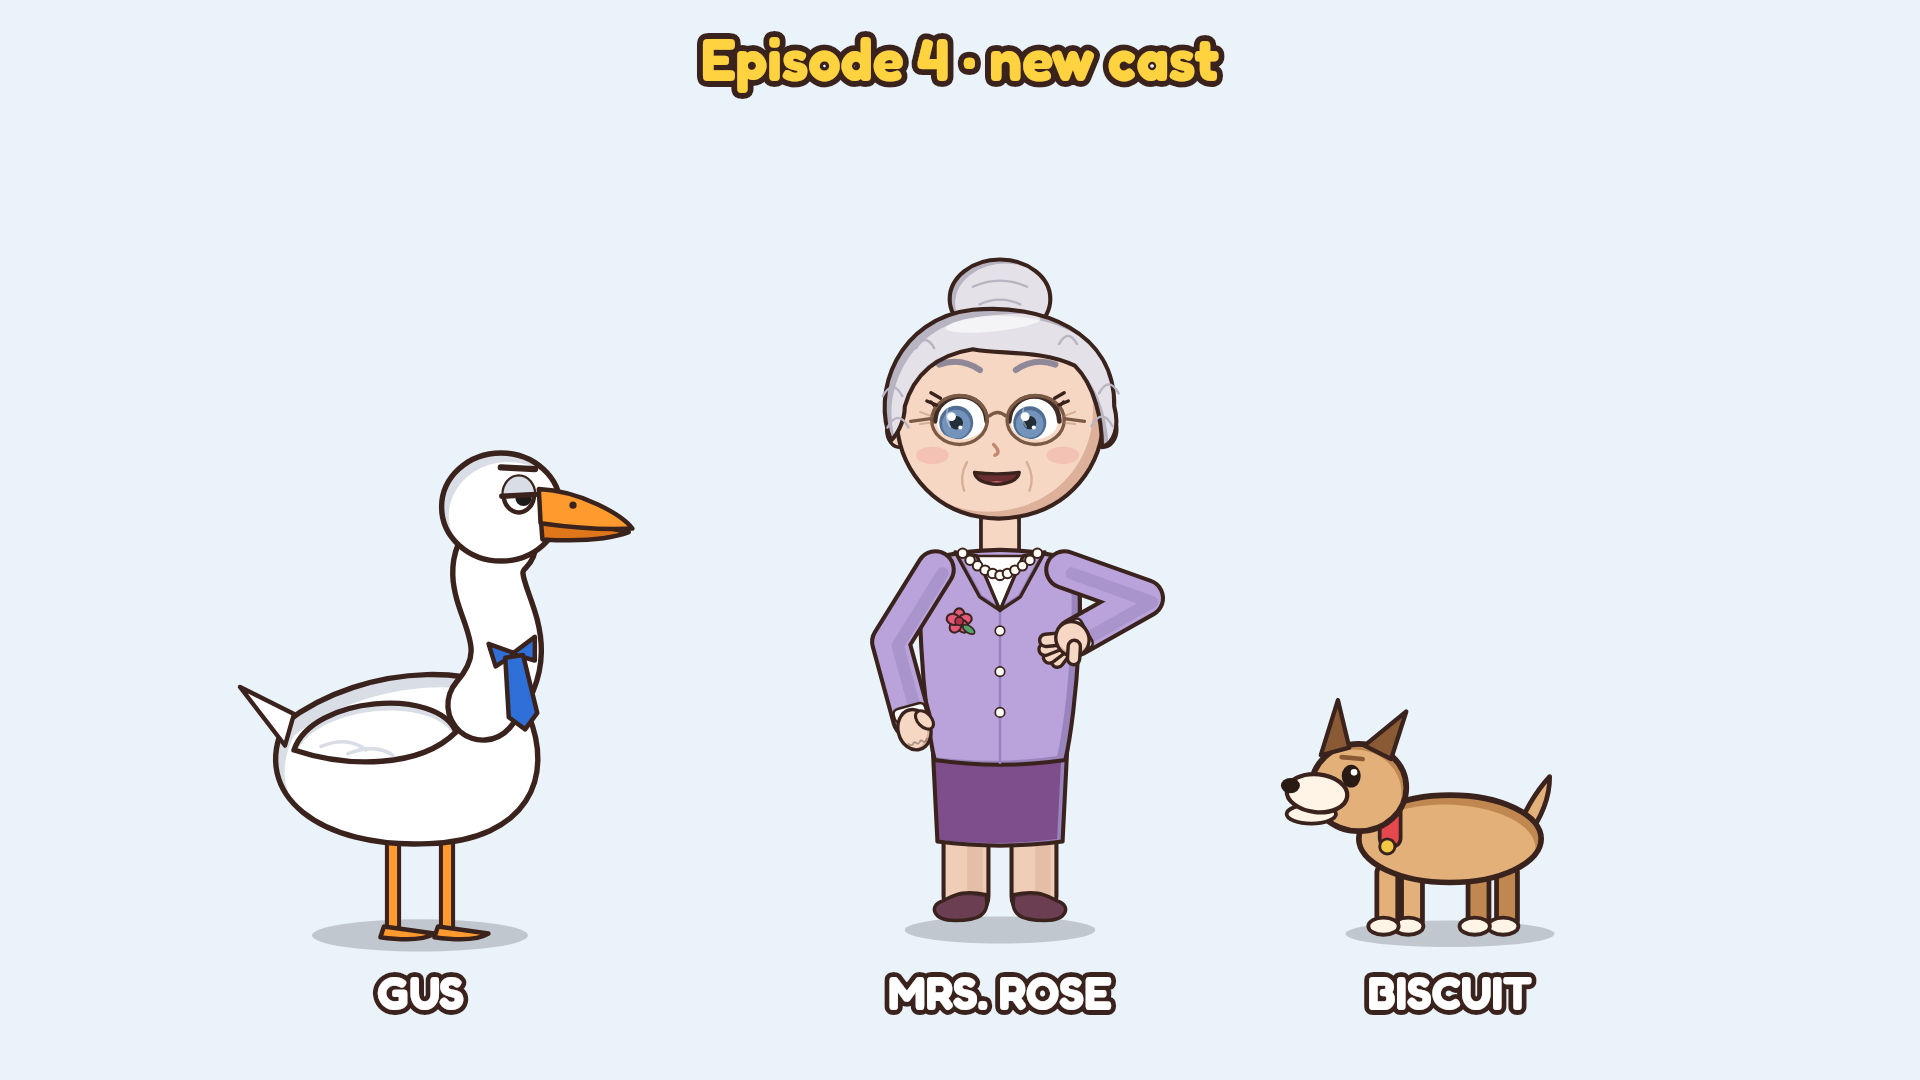
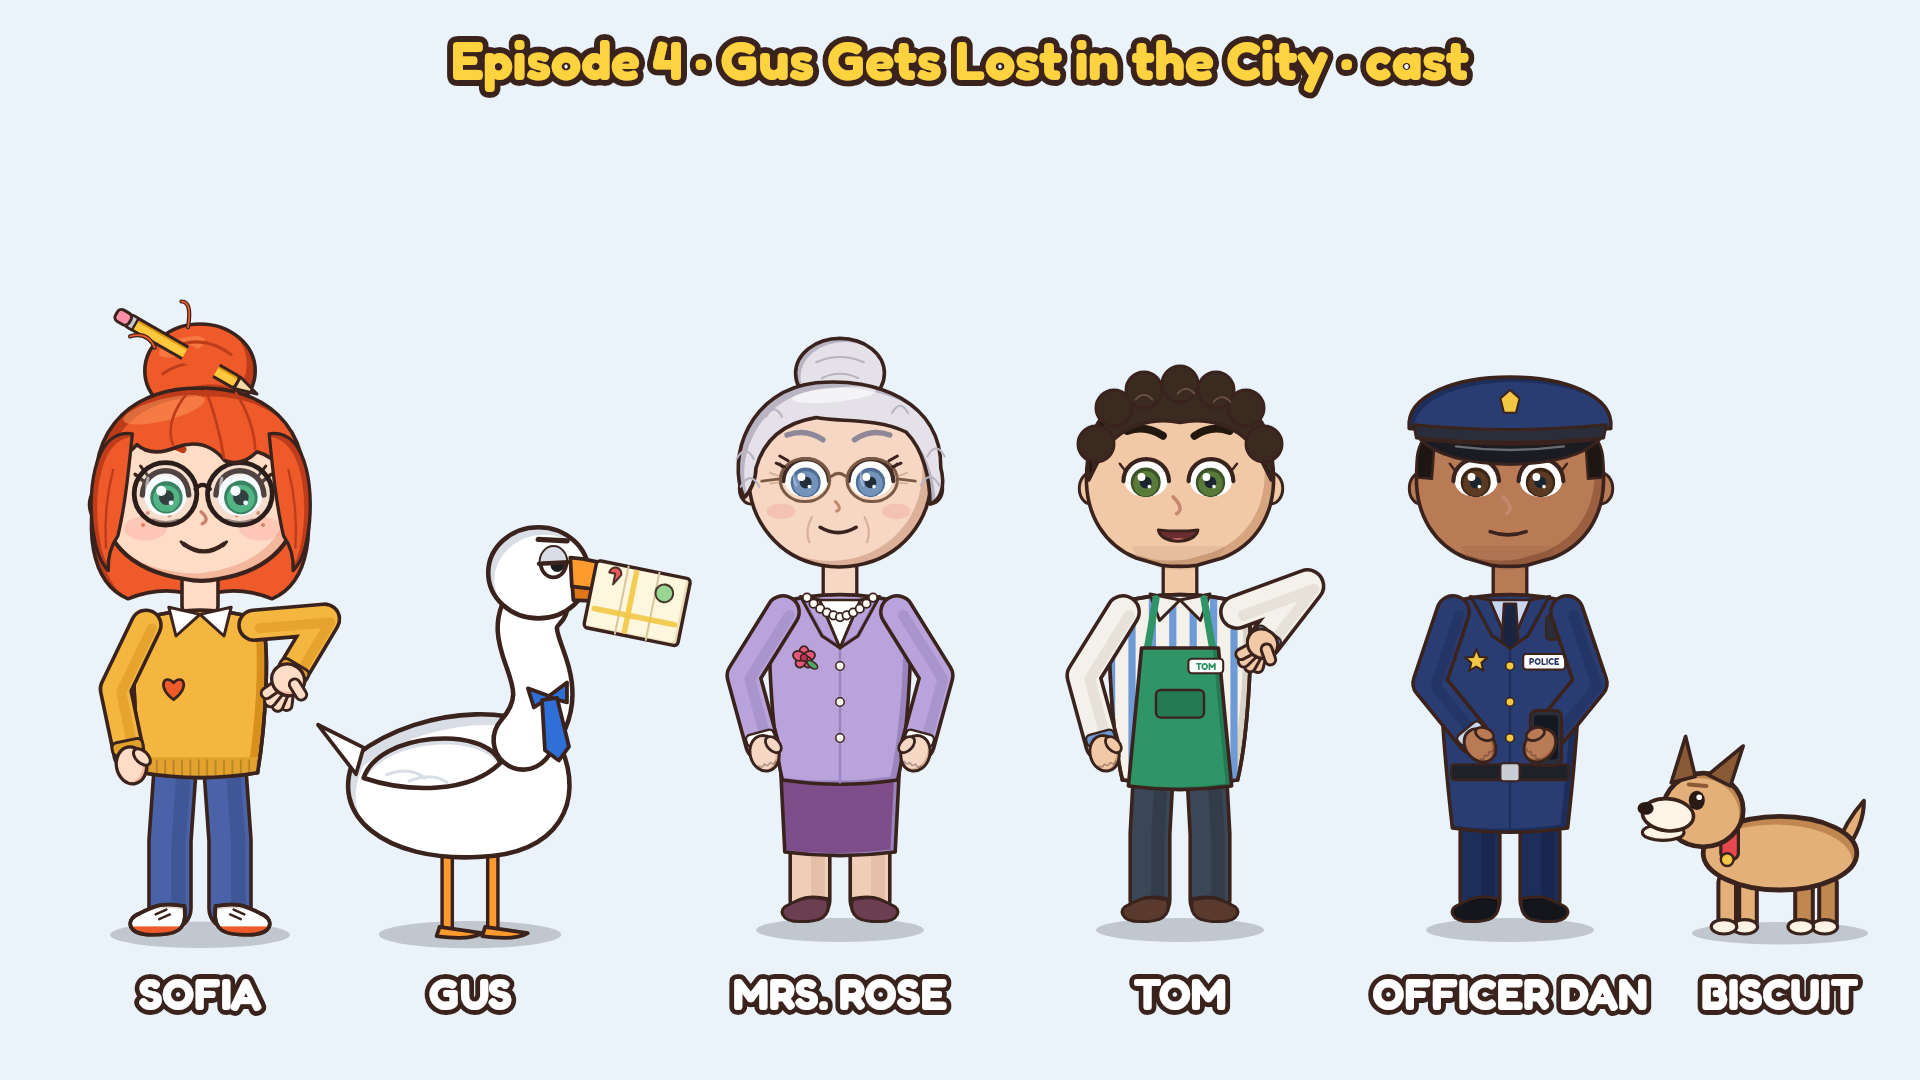
Ep4: Tom + Officer Dan (lib/town.js), props, cast sheet; el.py works with a proxy-held key
Claude-Session: https://claude.ai/code/session_01HNKLqSScVTNXAzghvw1qHg

Changed region(s): [[0.0312, 0.2139, 0.9688, 0.9472], [0.2188, 0.0306, 0.7812, 0.0917]]

diff --git a/lib/town.js b/lib/town.js
@@ -1,0 +1,91 @@
+// Ep4 town cast on the crew rig (lib/crew.js stays untouched): Tom (corner-shop clerk) and Officer Dan.
+// drawTom / drawDan(ctx, x, hipY, s, pose) — same pose API as drawCrew (hip = floor - 280*s).
+// Props: mapProp(ctx, s, open), phoneProp(ctx, s, screen), burgerProp(ctx, X, Y, s).
+const { OL, paint, line, curve, roundRect } = require('./draw');
+const crew = require('./crew');
+const SH_Y = -250, SH_X = 95;
+
+// ---- Tom: green apron over a striped shirt, curly hair, name tag ----
+function tomTorso(ctx) {
+  const shirt = c => {
+    c.moveTo(-SH_X - 14, SH_Y - 14); c.quadraticCurveTo(0, SH_Y - 44, SH_X + 14, SH_Y - 14);
+    c.bezierCurveTo(SH_X + 32, SH_Y + 10, SH_X + 18, -40, 96, 30); c.quadraticCurveTo(0, 44, -96, 30);
+    c.bezierCurveTo(-SH_X - 18, -40, -SH_X - 32, SH_Y + 10, -SH_X - 14, SH_Y - 14); c.closePath();
+  };
+  paint(ctx, shirt, '#F4F1EA', { shade: '#D9D3C6', sx: 12, sy: 6, lw: 6 });
+  ctx.save(); ctx.beginPath(); shirt(ctx); ctx.clip(); ctx.fillStyle = '#6E9BD6';
+  for (let x = -120; x < 130; x += 34) ctx.fillRect(x, SH_Y - 50, 12, 340); ctx.restore();
+  ctx.save(); ctx.beginPath(); shirt(ctx); ctx.lineWidth = 6; ctx.strokeStyle = OL; ctx.stroke(); ctx.restore();
+  // collar
+  for (const k of [-1, 1]) paint(ctx, c => { c.moveTo(0, SH_Y - 20); c.lineTo(k * 50, SH_Y - 30); c.lineTo(k * 34, SH_Y + 14); c.closePath(); }, '#F4F1EA', { lw: 5 });
+  // apron + straps
+  for (const k of [-1, 1]) line(ctx, [[k * 40, SH_Y - 22], [k * 56, SH_Y + 70]], 12, '#2F9466');
+  paint(ctx, c => { c.moveTo(-64, SH_Y + 60); c.lineTo(64, SH_Y + 60); c.lineTo(86, 40); c.quadraticCurveTo(0, 52, -86, 40); c.closePath(); }, '#2F9466', { shade: '#247A53', sx: 10, sy: 4, lw: 6 });
+  paint(ctx, c => roundRect(c, -40, -120, 80, 46, 8), '#247A53', { lw: 4 }); // pocket
+  paint(ctx, c => roundRect(c, 14, SH_Y + 78, 58, 24, 6), '#FFFFFF', { lw: 3.5 });
+  ctx.fillStyle = '#2F9466'; ctx.font = '800 16px FredokaL, NunitoC'; ctx.textAlign = 'center'; ctx.fillText('TOM', 43, SH_Y + 96);
+}
+function tomHair(ctx) {
+  const C = '#3A2A20', S = '#22170F';
+  paint(ctx, c => {
+    c.moveTo(-152, 0); c.bezierCurveTo(-168, -100, -96, -164, 0, -164); c.bezierCurveTo(96, -164, 168, -100, 152, 0);
+    c.lineTo(132, -40); c.bezierCurveTo(100, -96, 40, -104, 0, -96); c.bezierCurveTo(-40, -104, -100, -96, -132, -40); c.closePath();
+  }, C, { shade: S, sx: -8, sy: -8 });
+  for (const [x, y] of [[-110, -120], [-60, -150], [0, -160], [60, -150], [110, -120], [-140, -60], [140, -60]]) paint(ctx, c => c.arc(x, y, 30, 0, 7), C, { lw: 5 });
+  for (const [x, y] of [[-60, -140], [10, -150], [70, -136]]) curve(ctx, [x - 14, y + 6], [x, y - 10], [x + 14, y + 6], 3, '#6A5040');
+}
+crew.STYLES.tom = { glasses: false, mustache: false, steth: false, torso: tomTorso, hair: tomHair,
+  pal: { hair: '#3A2A20', hairSh: '#22170F', hairHi: '#6A5040', browCore: '#22170F', iris: '#5A7A3A', irisDk: '#3A5226', skin: '#F2C9A6', skinSh: '#D6A47E',
+    shirt: '#F4F1EA', sleeve: '#F4F1EA', sleeveSh: '#D9D3C6', cuff: '#6E9BD6', pants: '#3B4656', pantsSh: '#2A323E', shoe: '#5B3A2E', shoeSh: '#3A2620' } };
+
+// ---- Officer Dan: navy police uniform + cap, badge, radio ----
+function danExtra(ctx) {
+  paint(ctx, c => { c.moveTo(-10, SH_Y - 14); c.lineTo(10, SH_Y - 14); c.lineTo(14, SH_Y + 50); c.lineTo(0, SH_Y + 62); c.lineTo(-14, SH_Y + 50); c.closePath(); }, '#1A2340', { lw: 4 });
+  ctx.save(); ctx.translate(-56, SH_Y + 82); // star badge
+  paint(ctx, c => { for (let i = 0; i < 10; i++) { const r = i % 2 ? 9 : 20, a = -Math.PI / 2 + i * Math.PI / 5; c[i ? 'lineTo' : 'moveTo'](Math.cos(a) * r, Math.sin(a) * r); } c.closePath(); }, '#F2C744', { shade: '#C79A2A', sx: 2, sy: 2, lw: 3.5 });
+  ctx.restore();
+  paint(ctx, c => roundRect(c, 22, SH_Y + 70, 70, 26, 5), '#FFFFFF', { lw: 3.5 });
+  ctx.fillStyle = '#1E2E5A'; ctx.font = '800 15px FredokaL, NunitoC'; ctx.textAlign = 'center'; ctx.fillText('POLICE', 57, SH_Y + 88);
+  paint(ctx, c => roundRect(c, 60, SH_Y + 6, 24, 40, 6), '#2A2E3A', { lw: 3.5 }); // radio
+  line(ctx, [[78, SH_Y + 6], [78, SH_Y - 18]], 4, '#2A2E3A');
+  paint(ctx, c => roundRect(c, -98, 4, 196, 26, 6), '#1F2128', { lw: 4 }); // belt
+  paint(ctx, c => roundRect(c, -16, 2, 32, 30, 5), '#C9CDD6', { lw: 3.5 });
+}
+function danHair(ctx) { for (const k of [-1, 1]) paint(ctx, c => { c.moveTo(k * 154, -4); c.bezierCurveTo(k * 158, -30, k * 156, -50, k * 146, -66); c.lineTo(k * 126, -60); c.lineTo(k * 130, -2); c.closePath(); }, '#1E1612', { lw: 4 }); }
+crew.STYLES.dan = Object.assign({}, crew.STYLES.bob, { mustache: false, extra: danExtra, hair: danHair, browW: 13,
+  pal: { hair: '#1E1612', hairSh: '#120C09', hairHi: '#3A2E28', browCore: '#120C09', iris: '#5A3A22', irisDk: '#3A2414', skin: '#B97A56', skinSh: '#9A5F40',
+    jacket: '#2A3D73', jacketSh: '#1E2E5A', shirt: '#C9D6EE', sleeve: '#2A3D73', sleeveSh: '#1E2E5A', cuff: '#C9D6EE', button: '#F2C744', pants: '#1E2E5A', pantsSh: '#141F40', shoe: '#14161C', shoeSh: '#08090C' } });
+
+const drawTom = (ctx, x, y, s, p) => crew.drawCrew(ctx, x, y, s, p, 'tom');
+const drawDan = (ctx, x, y, s, p) => crew.drawCrew(ctx, x, y, s, p, 'dan');
+
+// ---- props (drawn upright at the origin) ----
+function mapProp(ctx, s = 1) {
+  ctx.save(); ctx.scale(s, s);
+  paint(ctx, c => roundRect(c, -70, -50, 140, 100, 6), '#FFF6DE', { shade: '#EADBB8', sx: 6, sy: 4, lw: 5 });
+  for (const x of [-23, 23]) line(ctx, [[x, -50], [x, 50]], 3, '#D8C79E');
+  ctx.save(); ctx.globalAlpha = 0.9;
+  line(ctx, [[-60, 20], [60, 20]], 8, '#F2C744'); line(ctx, [[-10, -44], [-10, 44]], 8, '#F2C744');
+  paint(ctx, c => c.arc(36, -22, 13, 0, 7), '#8ED28A', { lw: 3 });
+  paint(ctx, c => { c.moveTo(-40, -20); c.lineTo(-40, -36); c.arc(-40, -36, 9, Math.PI, 0); c.closePath(); }, '#E5484D', { lw: 3 });
+  ctx.restore(); ctx.restore();
+}
+function phoneProp(ctx, s = 1, screen = 'dark') {
+  ctx.save(); ctx.scale(s, s);
+  paint(ctx, c => roundRect(c, -26, -46, 52, 92, 10), '#2A2E3A', { lw: 5 });
+  paint(ctx, c => roundRect(c, -20, -38, 40, 74, 6), screen === 'on' ? '#9ED4F2' : '#141820', { lw: 0 });
+  if (screen === 'empty') { paint(ctx, c => roundRect(c, -12, -6, 22, 12, 3), '#141820', { ol: '#E5484D', lw: 3 }); paint(ctx, c => c.rect(10, -3, 3, 6), '#E5484D', { lw: 0 }); }
+  ctx.restore();
+}
+function burgerProp(c, X, Y, s) {
+  c.save(); c.translate(X, Y); c.scale(s, s);
+  paint(c, q => { q.moveTo(-80, -6); q.bezierCurveTo(-80, -70, 80, -70, 80, -6); q.closePath(); }, '#E9A54A', { shade: '#C8862E', sx: 0, sy: -8, lw: 6 });
+  c.fillStyle = '#FFF4D6'; for (const [x, y] of [[-40, -34], [-8, -46], [28, -36], [50, -22], [-58, -18]]) { c.beginPath(); c.ellipse(x, y, 7, 4, 0.3, 0, 7); c.fill(); }
+  paint(c, q => { q.moveTo(-88, 0); for (let i = 0; i <= 8; i++) q.lineTo(-88 + i * 22, i % 2 ? 14 : 2); q.lineTo(88, 2); q.closePath(); }, '#6FCF5F', { lw: 5 });
+  paint(c, q => roundRect(q, -84, 8, 168, 22, 10), '#FFD23F', { lw: 5 });
+  paint(c, q => roundRect(q, -82, 24, 164, 30, 14), '#8A4A2E', { lw: 6 });
+  paint(c, q => { q.moveTo(-80, 52); q.lineTo(80, 52); q.bezierCurveTo(80, 82, -80, 82, -80, 52); q.closePath(); }, '#E9A54A', { lw: 6 });
+  c.restore();
+}
+
+module.exports = { drawTom, drawDan, mapProp, phoneProp, burgerProp };

diff --git a/ep4/lineup.js b/ep4/lineup.js
@@ -1,14 +1,20 @@
+// Ep4 cast sheet: node ep4/lineup.js out.png
 require('../lib/fonts');
 const { createCanvas } = require('../node_modules/@napi-rs/canvas');
 const { drawGus } = require('../lib/gus');
+const { drawSofia } = require('../lib/sofia');
 const { drawRose, drawDog } = require('../lib/rose');
+const { drawTom, drawDan, mapProp, phoneProp } = require('../lib/town');
 const U = require('../lib/ui');
 const c = createCanvas(1920, 1080), x = c.getContext('2d');
 x.fillStyle = '#EAF2FA'; x.fillRect(0, 0, 1920, 1080);
-const F0 = 930;
-drawGus(x, 420, F0, 0.9, { face: 1, lids: 0.55, look: 0.3 });
-drawRose(x, 1000, F0 - 280 * 0.68, 0.68, { turn: -0.15, look: [-0.4, 0], mouth: { smile: 0.8, open: 0.15 }, armR: [110, -150], handR: 'open', browL: 0.3, browR: 0.3 });
-drawDog(x, 1450, F0, 0.95, { face: -1, tail: 1 });
-for (const [px, n] of [[420, 'GUS'], [1000, 'MRS. ROSE'], [1450, 'BISCUIT']]) U.textOutlined(x, n, px, 1010, 46, '#FFFFFF', { olw: 10 });
-U.textOutlined(x, 'Episode 4 · new cast', 960, 80, 58, '#FFD23F', { olw: 12 });
+const F0 = 930, s = 0.6;
+drawSofia(x, 200, F0 - 272 * s, s, { turn: 0.15, mouth: { smile: 0.8 }, armR: [150, -150], handR: 'open' });
+drawGus(x, 470, F0, 0.76, { face: 1, lids: 0.55, look: 0.3, hold: (c2, f, h) => { c2.translate(h.hx + 130, h.hy + 40); c2.rotate(0.2); mapProp(c2, 0.9); } });
+drawRose(x, 840, F0 - 280 * s, s, { turn: -0.1, mouth: { smile: 0.8 } });
+drawTom(x, 1180, F0 - 280 * s, s, { turn: -0.1, mouth: { smile: 0.8, open: 0.2 }, armR: [140, -200], handR: 'open', browL: 0.3, browR: 0.3 });
+drawDan(x, 1510, F0 - 280 * s, s, { turn: -0.1, mouth: { smile: 0.5 }, armL: [-60, -40], armR: [60, -40], armsFront: true, holdR: (c2) => phoneProp(c2, 1, 'empty') });
+drawDog(x, 1780, F0, 0.8, { face: -1, tail: 1 });
+for (const [px, n] of [[200, 'SOFIA'], [470, 'GUS'], [840, 'MRS. ROSE'], [1180, 'TOM'], [1510, 'OFFICER DAN'], [1780, 'BISCUIT']]) U.textOutlined(x, n, px, 1010, 44, '#FFFFFF', { olw: 10 });
+U.textOutlined(x, 'Episode 4 · Gus Gets Lost in the City · cast', 960, 80, 54, '#FFD23F', { olw: 12 });
 require('fs').writeFileSync(process.argv[2], c.toBuffer('image/png'));

diff --git a/ep4/bg4.js b/ep4/bg4.js
@@ -113,4 +113,4 @@ function drawWide(x) {
 }
 const wide = () => mk(drawWide);
 
-module.exports = { wide, drawWide, K, W, H, GW };
+module.exports = { wide, drawWide, K, W, H, GW, sky, sidewalk, win, bricks, door, tree, lamp, bank, bench, sign, mk, vg };

diff --git a/el.py b/el.py
@@ -2,9 +2,10 @@
 # If a key runs out of credits or is rejected, the next key is tried automatically.
 import json, sys, base64, subprocess, os
 KEYS = [k.strip() for k in (os.environ.get('ELEVEN_API_KEYS') or os.environ.get('ELEVEN_API_KEY') or '').split(',') if k.strip()]
-if not KEYS: raise SystemExit('Set ELEVEN_API_KEYS="key1,key2,..." (never write keys into code or chat logs)')
+if not KEYS: KEYS = [None]  # no env key: the cloud environment's network secret adds xi-api-key at the proxy
 def _call(key, url, body):
-    r = subprocess.run(['curl', '-s', '-m', '180', '-X', 'POST', url, '-H', 'xi-api-key: ' + key, '-H', 'Content-Type: application/json', '--data-binary', '@-'], input=body.encode(), capture_output=True).stdout
+    hdr = ['-H', 'xi-api-key: ' + key] if key else []
+    r = subprocess.run(['curl', '-s', '-m', '180', '-X', 'POST', url, *hdr, '-H', 'Content-Type: application/json', '--data-binary', '@-'], input=body.encode(), capture_output=True).stdout
     return json.loads(r)
 def tts(voice, text, out, model='eleven_multilingual_v2', vs=None, speed=None):
     vs = dict(vs or {"stability": 0.45, "similarity_boost": 0.8, "style": 0.4, "use_speaker_boost": True})
